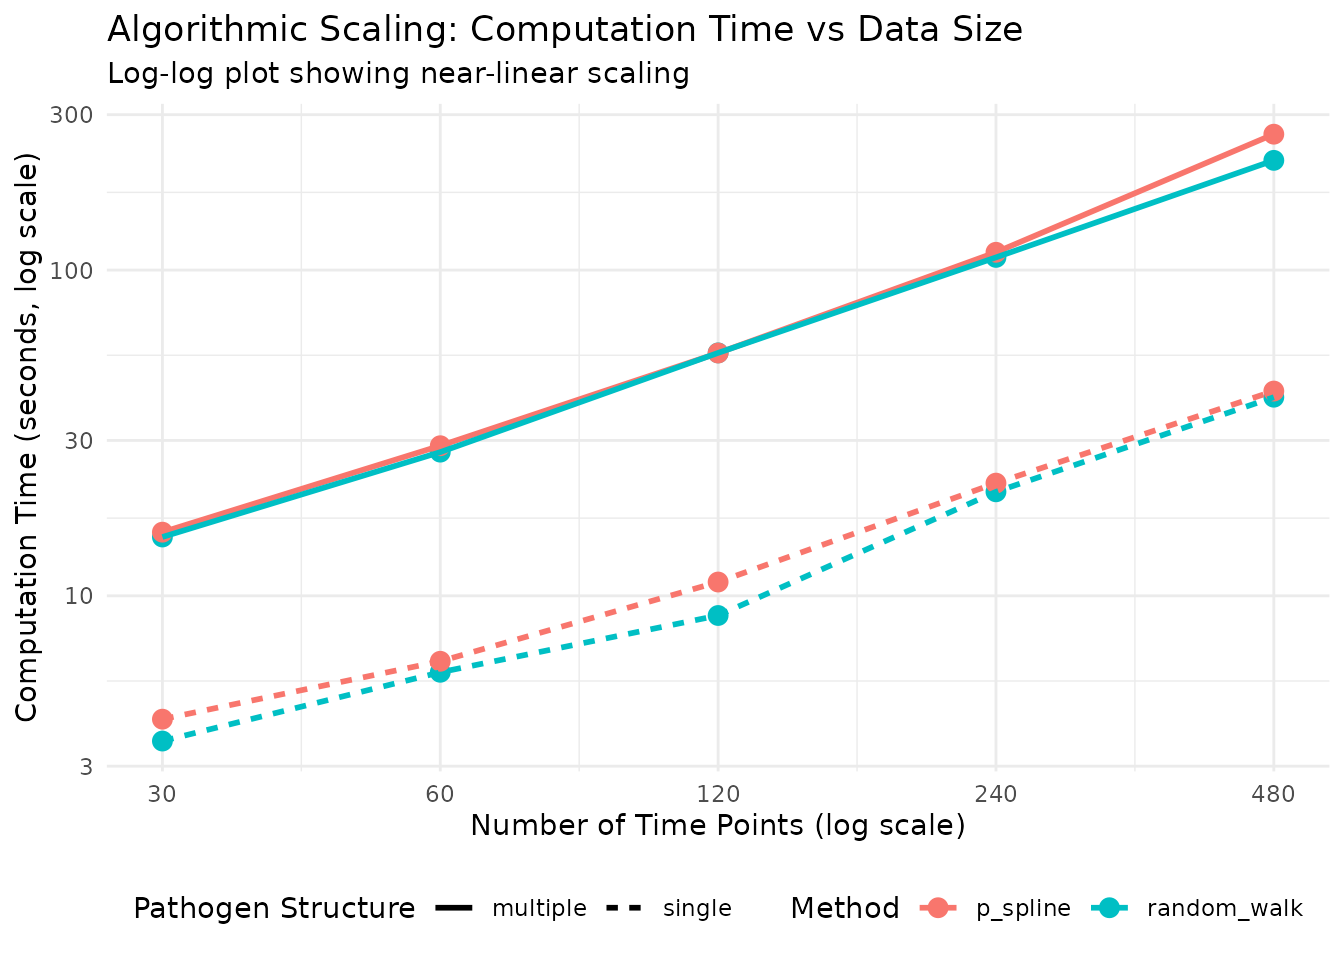
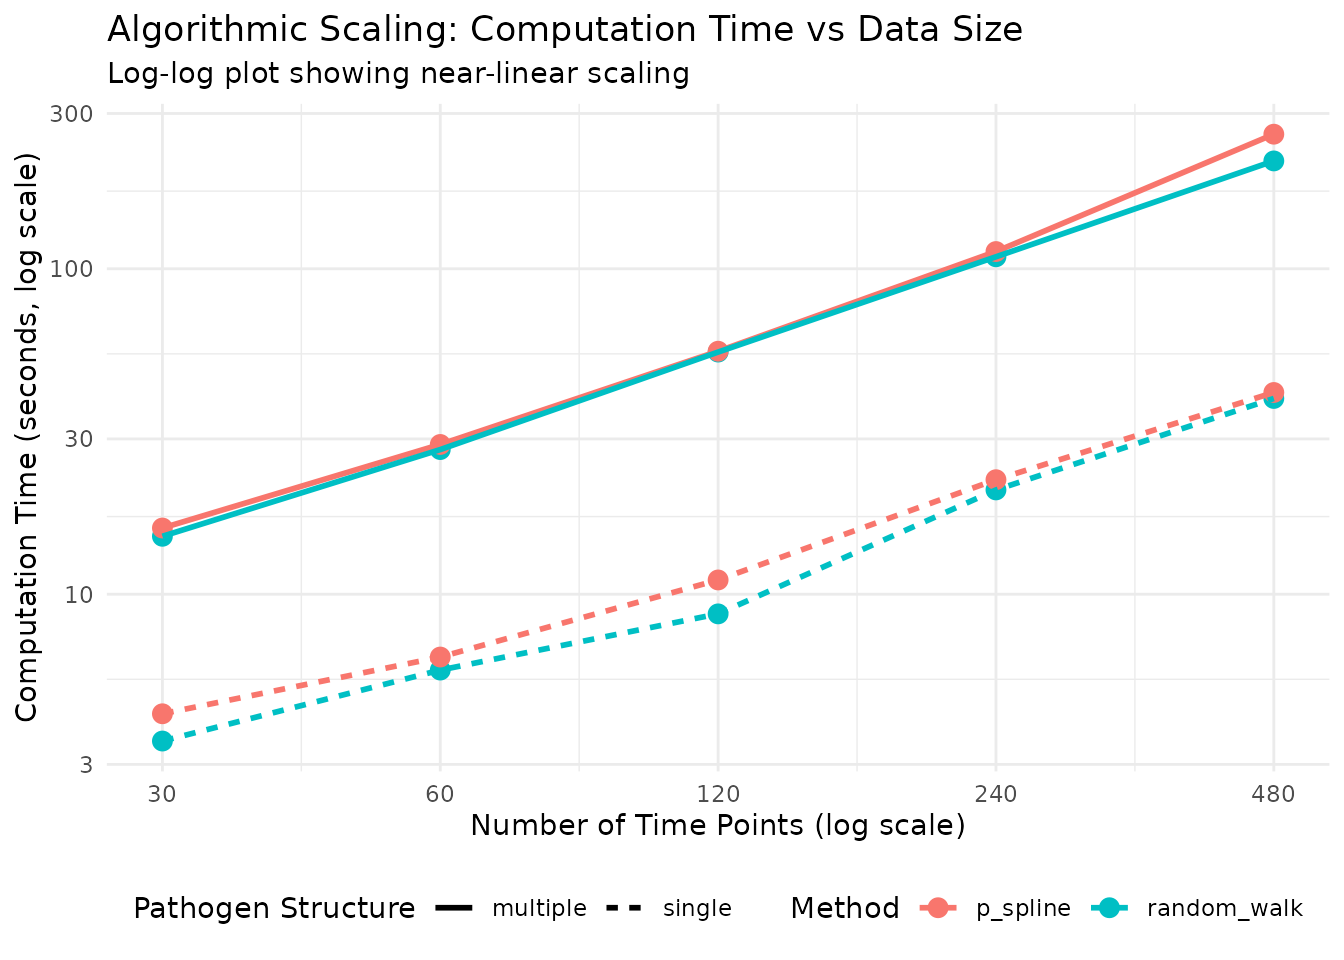
Deploying to gh-pages from @ acefa-hubs/EpiStrainDynamics@ed0aaa4f4f01c98eaf5853a8f883a3ba29cff2d2 🚀

diff --git a/articles/algorithmic-scaling.html b/articles/algorithmic-scaling.html
@@ -372,26 +372,26 @@ O(n^exponent)</caption>
 <tr class="odd">
 <td align="left">p_spline</td>
 <td align="left">multiple</td>
-<td align="right">1.009</td>
+<td align="right">1.001</td>
 <td align="right">0.996</td>
 </tr>
 <tr class="even">
 <td align="left">p_spline</td>
 <td align="left">single</td>
-<td align="right">0.851</td>
+<td align="right">0.837</td>
 <td align="right">0.991</td>
 </tr>
 <tr class="odd">
 <td align="left">random_walk</td>
 <td align="left">multiple</td>
-<td align="right">0.967</td>
-<td align="right">0.999</td>
+<td align="right">0.963</td>
+<td align="right">1.000</td>
 </tr>
 <tr class="even">
 <td align="left">random_walk</td>
 <td align="left">single</td>
-<td align="right">0.885</td>
-<td align="right">0.981</td>
+<td align="right">0.883</td>
+<td align="right">0.982</td>
 </tr>
 </tbody>
 </table>

diff --git a/articles/algorithmic-scaling.md b/articles/algorithmic-scaling.md
@@ -290,10 +290,10 @@ knitr::kable(scaling_results, digits = 3,
 
 | method      | pathogen_structure | scaling_exponent | r_squared |
 |:------------|:-------------------|-----------------:|----------:|
-| p_spline    | multiple           |            1.009 |     0.996 |
-| p_spline    | single             |            0.851 |     0.991 |
-| random_walk | multiple           |            0.967 |     0.999 |
-| random_walk | single             |            0.885 |     0.981 |
+| p_spline    | multiple           |            1.001 |     0.996 |
+| p_spline    | single             |            0.837 |     0.991 |
+| random_walk | multiple           |            0.963 |     1.000 |
+| random_walk | single             |            0.883 |     0.982 |
 
 Scaling exponents: time complexity approximately O(n^exponent)
 
